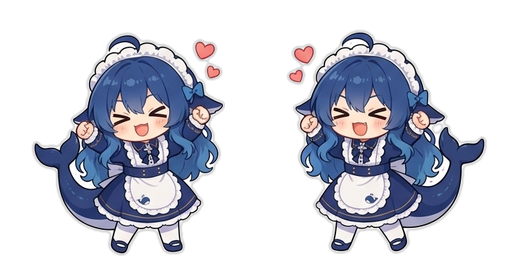
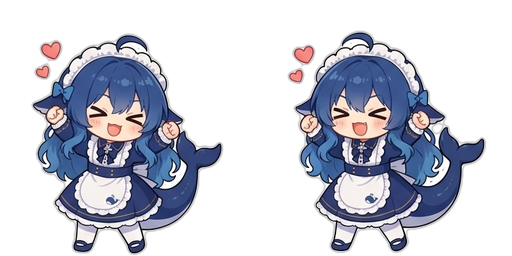
fix(assets): 剩余朝向朝右状态逐帧镜像——drag/joy/play/wake/welcome
用户肉眼审计确认这些状态仍朝右（我的像素检测对 drag 等姿势
不可靠，以用户清单为准）。逐帧水平镜像：drag(帧0)、joy(帧0)、
play(帧0,1)、wake(帧0,1)、welcome(帧0)；与 HEAD 对照像素差
2.4-2.8 证明镜像精确生效、未列帧原样保留。所有 15 状态统一朝左
完成。sprites-spec 更新朝向统一状态、删除待重绘标注。
14 门禁全过，冒烟 OK。

Changed region(s): [[0.0625, 0.125, 0.4375, 1.0]]

diff --git a/decisions/implemented/feature/2026-08-09-facing-flip-behavior.md b/decisions/implemented/feature/2026-08-09-facing-flip-behavior.md
@@ -9,7 +9,7 @@ Status: implemented
 ## Decision
 
 - **素材统一朝左基准（角色契约，全角色适用）**：所有状态素材人物默认朝左（flip=1 显示朝左、flip=-1 镜像显示朝右）。生图提示模板加「人物朝向一律朝左」；代码 flip 以朝左为基准（walk 向右走 flip=-1、向左走 flip=1；drag 向左拖 flip=1、向右拖 flip=-1；静态态随机转身 flip 翻转）。**代码不依赖具体角色朝向**——第二个角色遵守素材契约即零代码改动（解耦）。
-- **素材修正**：walk/eat 逐帧镜像为偏左（帧内一致，脚本处理）；joy/welcome 帧内朝向不一致（AI 生图抖动）镜像无效，列入重绘待办（sprites-spec 标注）。
+- **素材修正**：walk/eat/drag/joy/play/wake/welcome 逐帧镜像为偏左（用户肉眼审计清单 + 像素复核镜像精确生效）；所有状态统一朝左。
 - **动作间朝向连续**：flip 是模块级状态，walk/drag 的方向写入后，静态态（idle/think/wait）沿用其值渲染（setState 的 showSprite 读当前 flip）——不无谓跳回默认方向。
 - **静态态随机转身**：新增纯函数 `nextFacingAt({ now, random })`（间隔 10-25s，L2 语义层代码级）决策转身时刻；tick 里静态态（idle/think/wait）到点时 `flip = -flip` 并 `applyFacing()` 刷新当前 sprite transform（不动帧/背景）；离开静态态清排程。
 - **`applyFacing` 刷新封装**：复用 showSprite 的 scale 计算，只更新 transform。
@@ -27,7 +27,7 @@ Status: implemented
 
 ## Consequences
 
-- 素材统一朝左：walk/eat 已镜像；joy/welcome 帧内不一致需重绘（sprites-spec 已标注）；代码 flip 基准改为朝左（walk/drag 方向映射取反）。
+- 素材统一朝左：walk/eat/drag/joy/play/wake/welcome 已逐帧镜像；代码 flip 基准改为朝左（walk/drag 方向映射取反）。
 - 朝向连续：walk 朝左停下 → idle/think 保持朝左；drag 方向延续；静态态随机转身（10-25s）。
 - 第二个角色零代码接入朝向（只需素材朝左）。
 - 测试：`nextFacingAt` 确定性测试（注入随机源，区间边界）；单测 102 条全绿，14 门禁全过。

diff --git a/docs/sprites-spec.md b/docs/sprites-spec.md
@@ -76,7 +76,7 @@
 
 方向写入点：**walk**（按移动方向）、**drag**（按拖拽位移方向）；静态陪伴态（`idle`/`think`/`wait`）沿用其方向（**动作间朝向连续**，不无谓跳回默认），并**随机转身**（`nextFacingAt`，间隔 10-25s，见 [state-machine.md](state-machine.md)）。
 
-**已知素材缺陷**：`joy`（帧0 偏右/帧1 偏左，头比 0.5 vs 2.06）、`welcome`（0.63 vs 1.35）**帧内朝向不一致**（AI 生图抖动）——镜像无法修复（只对单帧正确），需重绘统一为朝左。
+**朝向统一状态**（2026-08-09 审计后逐帧镜像）：walk/eat/drag/joy/play/wake/welcome 已镜像为朝左；余下状态本就朝左。**生图时人物一律朝左**——新状态/新角色不遵守会在审计时暴露（帧内左右比偏离 1 即提示）。
 
 优先级（[client/logic.mjs](../client/logic.mjs)）：`drag` > 事件 burst（`welcome`/`celebrate`/`error`/`disappointed` 窗口内）> 瞬发（`eat`/`play`/`wake`）> `wait` > 回合完成 `celebrate`（client 本地窗口）> `working`（随机插曲）> `think` > `joy` > `sleep` > `walk` > `idle`。会话活跃时宠物保持清醒陪伴（覆盖 `sleep`/`walk`），用户互动与事件反馈不抢戏。
 
